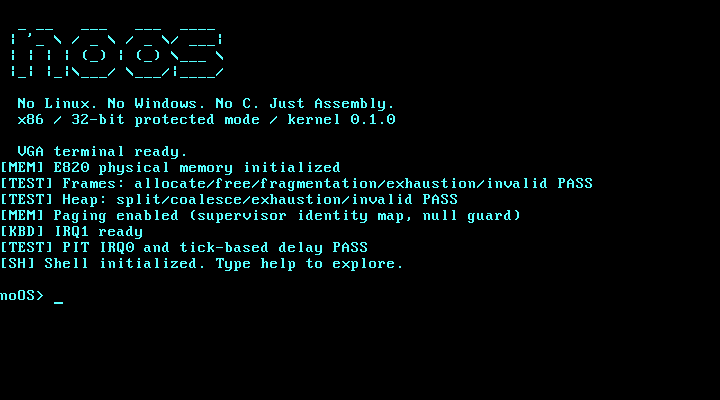
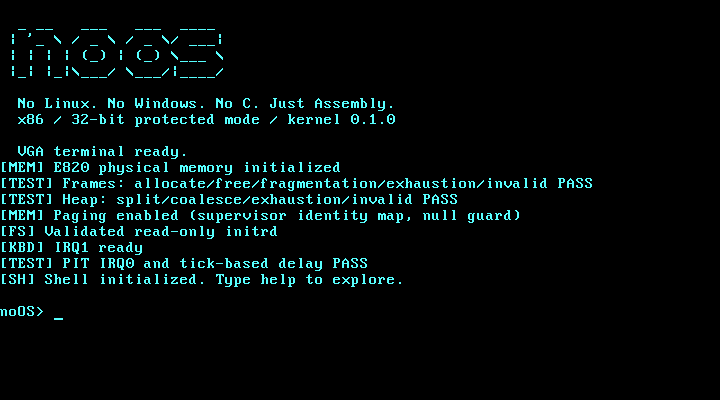
Publish noOS site

Changed region(s): [[0.0, 0.57, 0.55, 0.81]]

diff --git a/noOS/docs.html b/noOS/docs.html
@@ -18,18 +18,23 @@
   <main id="main" class="wrap">
     <div class="docs-title"><p class="eyebrow">THE noOS FIELD MANUAL</p><h1>Know every instruction.</h1><p>Read the boot path, inspect the memory layout, and run the actual kernel. The source is the specification; the verified gates describe its progress.</p></div>
     <div class="docs-layout">
-      <nav class="docs-nav" aria-label="Manual contents"><p>CONTENTS</p><a href="#overview">What noOS is</a><a href="#architecture">Boot & architecture</a><a href="#memory">Memory & paging</a><a href="#shell">Shell commands</a><a href="#hardware">Timer & CPU</a><a href="#development">Build & test</a><a href="#debugging">GDB debugging</a><a href="#status">Verified roadmap</a><a href="#limits">Limits & contributing</a></nav>
+      <nav class="docs-nav" aria-label="Manual contents"><p>CONTENTS</p><a href="#overview">What noOS is</a><a href="#architecture">Boot & architecture</a><a href="#memory">Memory & paging</a><a href="#shell">Shell commands</a><a href="#filesystem">Read-only files</a><a href="#hardware">Timer & CPU</a><a href="#development">Build & test</a><a href="#debugging">GDB debugging</a><a href="#status">Verified roadmap</a><a href="#limits">Limits & contributing</a></nav>
       <div class="docs-content">
         <section id="overview" aria-labelledby="overview-title"><h2 id="overview-title">What noOS is</h2><p>noOS is an experimental x86 operating system. A BIOS loads its boot sector, which loads a second stage and then a protected mode Assembly kernel. It runs directly on the virtual hardware QEMU provides.</p><p>All code executed by noOS is NASM Assembly. Python and Make build the disk image and run tests on the host; neither is part of the operating system runtime. There is no libc or host operating system inside the guest.</p><div class="docs-note"><p><strong>Supported target:</strong> QEMU’s legacy BIOS <code>pc</code> machine with VGA text mode, the legacy PIC, PIT, COM1 serial output, and a PS/2 keyboard. Physical hardware and UEFI boot are unverified.</p></div></section>
-        <section id="architecture" aria-labelledby="architecture-title"><h2 id="architecture-title">Boot & architecture</h2><div class="architecture" aria-label="Boot sequence"><div><div><strong>BIOS → first stage</strong><p>Loads the first sector at <code>0x7C00</code>; the loader preserves the BIOS boot drive.</p><span>boot/stage1.asm</span></div><b>16-BIT REAL MODE</b></div><div><div><strong>First stage → second stage</strong><p>Reads the second stage from the raw disk image and transfers control to <code>0x8000</code>.</p><span>boot/stage2.asm</span></div><b>BIOS DISK SERVICES</b></div><div><div><strong>Second stage → protected mode</strong><p>Preserves the E820 map, loads the kernel, checks A20, installs a GDT, sets CR0.PE, and makes a far jump.</p><span>boot/gdt.asm</span></div><b>FLAT SEGMENTATION</b></div><div><div><strong>Protected mode → kernel</strong><p>Initializes segment registers and a stack, then enters the kernel at <code>0x10000</code>.</p><span>kernel/entry.asm</span></div><b>32-BIT KERNEL</b></div></div><h3>Kernel initialization</h3><p><a href="https://github.com/OthmaneBlial/noOS/blob/main/kernel/main.asm">kernel/main.asm</a> initializes and checks the VGA terminal, IDT, PIC, physical allocator, heap, and paging. It then installs the PS/2 keyboard, detects the CPU, configures the PIT, enables interrupts, checks tick-based delay, and starts the shell.</p><h3>Hardware ownership</h3><p>The kernel writes its VGA terminal through <code>0xB8000</code>. The PS/2 driver receives keyboard events through IRQ1 after the PIC is remapped and the IDT installed. The PIT drives IRQ0. COM1 serial output exposes boot and diagnostic events to QEMU’s host terminal.</p><p>The source modules live in <a href="https://github.com/OthmaneBlial/noOS/tree/main/kernel">kernel/</a>. The roadmap below records each implementation’s verification status.</p></section>
+        <section id="architecture" aria-labelledby="architecture-title"><h2 id="architecture-title">Boot & architecture</h2><div class="architecture" aria-label="Boot sequence"><div><div><strong>BIOS → first stage</strong><p>Loads the first sector at <code>0x7C00</code>; the loader preserves the BIOS boot drive.</p><span>boot/stage1.asm</span></div><b>16-BIT REAL MODE</b></div><div><div><strong>First stage → second stage</strong><p>Reads the second stage from the raw disk image and transfers control to <code>0x8000</code>.</p><span>boot/stage2.asm</span></div><b>BIOS DISK SERVICES</b></div><div><div><strong>Second stage → protected mode</strong><p>Preserves the E820 map, loads the kernel, checks A20, installs a GDT, sets CR0.PE, and makes a far jump.</p><span>boot/gdt.asm</span></div><b>FLAT SEGMENTATION</b></div><div><div><strong>Protected mode → kernel</strong><p>Initializes segment registers and a stack, then enters the kernel at <code>0x10000</code>.</p><span>kernel/entry.asm</span></div><b>32-BIT KERNEL</b></div></div><h3>Kernel initialization</h3><p><a href="https://github.com/OthmaneBlial/noOS/blob/main/kernel/main.asm">kernel/main.asm</a> initializes and checks the VGA terminal, IDT, PIC, physical allocator, heap, paging, and the read-only initrd. It then installs the PS/2 keyboard, detects the CPU, configures the PIT, enables interrupts, checks tick-based delay, and starts the shell.</p><h3>Hardware ownership</h3><p>The kernel writes its VGA terminal through <code>0xB8000</code>. The PS/2 driver receives keyboard events through IRQ1 after the PIC is remapped and the IDT installed. The PIT drives IRQ0. COM1 serial output exposes boot and diagnostic events to QEMU’s host terminal.</p><p>The source modules live in <a href="https://github.com/OthmaneBlial/noOS/tree/main/kernel">kernel/</a>. The roadmap below records each implementation’s verification status.</p></section>
         <section id="memory" aria-labelledby="memory-title"><h2 id="memory-title">Memory & paging</h2><p>The second stage preserves BIOS E820 records. The kernel validates the map, distinguishes usable from reserved ranges, reserves the first MiB, and allocates complete 4 KiB physical frames from usable RAM below 128 MiB.</p><div class="table-scroll"><table><thead><tr><th scope="col">Address</th><th scope="col">Purpose</th><th scope="col">Owner</th></tr></thead><tbody><tr><td><code>0x4FF0 / 0x4FF4</code></td><td>E820 record count / map signature</td><td>Loader handoff metadata</td></tr><tr><td><code>0x5000</code></td><td>E820 memory map buffer</td><td>Second stage / memory discovery</td></tr><tr><td><code>0x7C00</code></td><td>512-byte BIOS boot sector</td><td>First stage</td></tr><tr><td><code>0x8000</code></td><td>Second stage load address</td><td>Loader</td></tr><tr><td><code>0x10000</code></td><td>Kernel load and entry address</td><td>32-bit kernel</td></tr><tr><td><code>0x70000–0x7FFFF</code></td><td>64 KiB kernel heap arena</td><td>Heap allocator</td></tr><tr><td><code>0x88000–0x8FFFF</code></td><td>Kernel stack region; initial top <code>0x90000</code></td><td>Kernel stack</td></tr><tr><td><code>0xB8000</code></td><td>80 × 25 VGA text buffer</td><td>VGA hardware</td></tr><tr><td><code>0x00000–0xFFFFF</code></td><td>Reserved first MiB</td><td>Boot environment and hardware</td></tr></tbody></table></div><h3>Physical frames and heap</h3><p>The physical allocator tracks eligible, busy, and pinned frames. It handles exhaustion and rejects unaligned, out-of-range, invalid, double, and pinned-frame frees. The 64 KiB heap uses 16-byte aligned allocations, first fit, block splitting, and adjacent free block coalescing.</p><p><code>mem</code> reads the actual E820 usable total, managed usable frames, unavailable frames inside the managed window, allocated/free frames, and heap usage. Detected usable memory above 128 MiB contributes to the E820 total but is outside the allocator’s current management window.</p><h3>Supervisor paging</h3><p>The kernel identity maps the first 128 MiB with supervisor-only page tables. The null page is absent, and the VGA page is uncached. CR0 paging and supervisor write protection are enabled. One page directory and 32 page tables occupy 33 pinned frames that cannot be released through the allocator.</p><div class="docs-note"><p>This is one kernel address space, with no user mode isolation yet. The mapped window also includes reserved and unavailable addresses; only E820-eligible frames enter the physical free pool. Boot checks validate the kernel, stack, E820, heap, and VGA mappings before paging is enabled.</p></div></section>
-        <section id="shell" aria-labelledby="shell-title"><h2 id="shell-title">Shell commands</h2><p>The shell runs inside the kernel and implements all fourteen initial commands. Type <code>help</code> in the guest to see the command menu for your build.</p><div class="table-scroll"><table><thead><tr><th scope="col">Command</th><th scope="col">Purpose</th></tr></thead><tbody><tr><td><code>help</code></td><td>List implemented commands.</td></tr><tr><td><code>clear</code></td><td>Clear the VGA terminal.</td></tr><tr><td><code>version</code> / <code>about</code></td><td>Print the kernel identity and project description.</td></tr><tr><td><code>echo [text]</code></td><td>Write text to the terminal.</td></tr><tr><td><code>history</code></td><td>Show previously entered commands.</td></tr><tr><td><code>color FB</code></td><td>Set foreground then background using two hex digits; <code>color e1</code> is yellow on blue.</td></tr><tr><td><code>mem</code></td><td>Print detected and managed memory, frame counts, and heap usage.</td></tr><tr><td><code>cpu</code></td><td>Print CPUID vendor, family, model, stepping, and leaf 1 EDX features; report when CPUID is unavailable.</td></tr><tr><td><code>uptime</code></td><td>Read live 64-bit PIT tick and elapsed second counters.</td></tr><tr><td><code>sysinfo</code></td><td>Combine version, CPU, memory, uptime, keyboard IRQ, and dropped-event diagnostics.</td></tr><tr><td><code>reboot</code> / <code>halt</code></td><td>Restart or halt the guest machine.</td></tr><tr><td><code>panic [page|gp|divide]</code></td><td>Trigger a real exception: invalid opcode by default, or page fault, general protection, or divide error.</td></tr></tbody></table></div><h3>Line editing</h3><p>Left and Right move the cursor. Home and End jump within the line. Delete and Backspace remove characters; Escape clears the draft. Tab inserts one space. Up and Down navigate eight history entries while preserving the current draft. Input is bounded to 127 ASCII characters.</p><p>Filesystem and user process commands will be documented when their separate implementations are verified.</p></section>
+        <section id="shell" aria-labelledby="shell-title"><h2 id="shell-title">Shell commands</h2><p>The shell runs inside the kernel and implements eighteen commands. Type <code>help</code> in the guest to see the command menu for your build.</p><div class="table-scroll"><table><thead><tr><th scope="col">Command</th><th scope="col">Purpose</th></tr></thead><tbody><tr><td><code>help</code></td><td>List implemented commands.</td></tr><tr><td><code>clear</code></td><td>Clear the VGA terminal.</td></tr><tr><td><code>version</code> / <code>about</code></td><td>Print the kernel identity and project description.</td></tr><tr><td><code>echo [text]</code></td><td>Write text to the terminal.</td></tr><tr><td><code>history</code></td><td>Show previously entered commands.</td></tr><tr><td><code>color FB</code></td><td>Set foreground then background using two hex digits; <code>color e1</code> is yellow on blue.</td></tr><tr><td><code>mem</code></td><td>Print detected and managed memory, frame counts, and heap usage.</td></tr><tr><td><code>cpu</code></td><td>Print CPUID vendor, family, model, stepping, and leaf 1 EDX features; report when CPUID is unavailable.</td></tr><tr><td><code>uptime</code></td><td>Read live 64-bit PIT tick and elapsed second counters.</td></tr><tr><td><code>sysinfo</code></td><td>Combine version, CPU, memory, uptime, keyboard IRQ, and dropped-event diagnostics.</td></tr><tr><td><code>ls</code></td><td>List files and lengths in the embedded read-only root.</td></tr><tr><td><code>cat FILE</code></td><td>Read a named file from validated initrd data.</td></tr><tr><td><code>pwd</code></td><td>Print the only root directory, <code>/</code>.</td></tr><tr><td><code>cd /</code></td><td>Accept the flat root; reject other directory paths.</td></tr><tr><td><code>reboot</code> / <code>halt</code></td><td>Restart or halt the guest machine.</td></tr><tr><td><code>panic [page|gp|divide]</code></td><td>Trigger a real exception: invalid opcode by default, or page fault, general protection, or divide error.</td></tr></tbody></table></div><h3>Line editing</h3><p>Left and Right move the cursor. Home and End jump within the line. Delete and Backspace remove characters; Escape clears the draft. Tab inserts one space. Up and Down navigate eight history entries while preserving the current draft. Input is bounded to 127 ASCII characters.</p><p>The filesystem commands currently access the embedded read-only initrd. Writable storage and user process interfaces remain separate roadmap work.</p></section>
+        <section id="filesystem" aria-labelledby="filesystem-title"><h2 id="filesystem-title">Read-only files</h2><p>The kernel embeds an initrd built from <code>initrd/hello.txt</code> and <code>initrd/manual.txt</code>. It exposes one flat root, <code>/</code>. The Assembly <code>cat</code> command prints the actual file bytes from validated embedded data.</p><p>Startup checks the format magic and version, entry count, total length, bounded printable file names, duplicate names, and data offsets and lengths. Bounds checks reject overflow, overlap, and data outside the initrd. Invalid metadata produces a filesystem error and kernel panic before shell file access.</p><div class="command-panel"><div class="code-heading"><span>INSIDE THE noOS SHELL</span><button type="button" data-copy="files-code" aria-label="Copy read-only filesystem commands">Copy commands</button></div><pre><code id="files-code">ls
+cat hello.txt
+cat manual.txt
+pwd
+cd /</code></pre></div><div class="docs-note"><p>The initrd is part of the built image. It has no write operations, subdirectories, or persistent storage. A writable disk filesystem still requires block device I/O, a disk format, and persistence verification.</p></div><p>Inspect <a href="https://github.com/OthmaneBlial/noOS/blob/main/kernel/fs/initrd.asm">kernel/fs/initrd.asm</a> and the <a href="https://github.com/OthmaneBlial/noOS/tree/main/initrd">embedded source files</a>.</p></section>
         <section id="hardware" aria-labelledby="hardware-title"><h2 id="hardware-title">Timer & CPU</h2><p>The PIT uses a 1,193,182 Hz input clock and divisor 11,932, producing roughly 100 IRQ0 ticks per second. Both tick and elapsed second counters are 64-bit. Seconds are derived from accumulated PIT input cycles rather than assuming an exactly 100 Hz rate.</p><p>The kernel’s tick-based delay uses interrupts and halt while waiting. It rejects disabled interrupts and invalid tick counts. <code>uptime</code> reads the counters; <code>sysinfo</code> also exposes actual keyboard IRQ and dropped-event counts.</p><p>CPU initialization first tests CPUID availability, then obtains vendor, family, model, stepping, and feature bits from the virtual CPU. Values displayed by <code>cpu</code> come from that hardware response.</p></section>
         <section id="development" aria-labelledby="development-title"><h2 id="development-title">Build & test</h2><p>Install NASM, QEMU, GNU Make, and Python 3. Build tools run on the host; the result is a raw BIOS disk image that QEMU boots.</p><div class="command-panel"><div class="code-heading"><span>BUILD AND BOOT</span><button type="button" data-copy="build-code" aria-label="Copy build and boot commands">Copy commands</button></div><pre><code id="build-code">git clone https://github.com/OthmaneBlial/noOS.git
 cd noOS
 make
 make run</code></pre></div><div class="table-scroll"><table><thead><tr><th scope="col">Target</th><th scope="col">Result</th></tr></thead><tbody><tr><td><code>make</code></td><td>Assemble the stages and kernel; build <code>build/noos.img</code>.</td></tr><tr><td><code>make run</code></td><td>Boot the image with QEMU, 128 MiB of RAM, and serial output in the host terminal.</td></tr><tr><td><code>make test</code></td><td>Build and run the automated QEMU checks defined in the current checkout.</td></tr><tr><td><code>make debug</code></td><td>Start paused with a GDB server at <code>127.0.0.1:1234</code>.</td></tr><tr><td><code>make size</code></td><td>Report the current binary sizes.</td></tr><tr><td><code>make clean</code></td><td>Remove generated build output.</td></tr></tbody></table></div><p>The raw image, NASM listing, and binaries are generated locally. Inspect <a href="https://github.com/OthmaneBlial/noOS/blob/main/Makefile">Makefile</a> and <a href="https://github.com/OthmaneBlial/noOS/tree/main/tests">tests/</a> for the exact build and verification commands. A QEMU pass establishes virtual platform behavior; it is not a physical machine test.</p></section>
-        <section id="verification" aria-labelledby="verification-title"><h2 id="verification-title">What the tests inspect</h2><p><code>make test</code> runs QEMU checks for boot, VGA, keyboard, shell, memory, paging, and hardware diagnostics. The memory matrix uses 16, 64, 128, and 256 MiB guests and compares the preserved E820 records with allocator accounting. The 256 MiB case checks that detected memory above the management ceiling stays outside the free pool.</p><p>The suite also inspects actual page directory and table entries, supervisor permissions, the absent null page, VGA cache flags, and pinned paging structures. Fault tests deliberately trigger invalid opcode, page fault, general protection, and divide error exceptions. Hardware tests check live PIT counter advancement, CPU data, and keyboard IRQ statistics.</p><p>See <a href="https://github.com/OthmaneBlial/noOS/blob/main/tests/test_memory.py">test_memory.py</a>, <a href="https://github.com/OthmaneBlial/noOS/blob/main/tests/test_paging.py">test_paging.py</a>, and <a href="https://github.com/OthmaneBlial/noOS/blob/main/tests/test_hardware.py">test_hardware.py</a> for assertions and scope.</p></section>
+        <section id="verification" aria-labelledby="verification-title"><h2 id="verification-title">What the tests inspect</h2><p><code>make test</code> runs QEMU checks for boot, VGA, keyboard, shell, memory, paging, initrd, and hardware diagnostics. The memory matrix uses 16, 64, 128, and 256 MiB guests and compares the preserved E820 records with allocator accounting. The 256 MiB case checks that detected memory above the management ceiling stays outside the free pool.</p><p>The suite also inspects actual page directory and table entries, supervisor permissions, the absent null page, VGA cache flags, and pinned paging structures. Fault tests deliberately trigger invalid opcode, page fault, general protection, and divide error exceptions. Hardware tests check live PIT counter advancement, CPU data, and keyboard IRQ statistics.</p><p>Initrd tests read the actual two files, check missing files and directory errors, and reject six corrupt image fixtures: bad magic, excessive count, invalid data offset, invalid length, unterminated name, and duplicate name. See <a href="https://github.com/OthmaneBlial/noOS/blob/main/tests/test_initrd.py">test_initrd.py</a>.</p><p>See <a href="https://github.com/OthmaneBlial/noOS/blob/main/tests/test_memory.py">test_memory.py</a>, <a href="https://github.com/OthmaneBlial/noOS/blob/main/tests/test_paging.py">test_paging.py</a>, and <a href="https://github.com/OthmaneBlial/noOS/blob/main/tests/test_hardware.py">test_hardware.py</a> for assertions and scope.</p></section>
         <section id="debugging" aria-labelledby="debugging-title"><h2 id="debugging-title">GDB debugging</h2><p>Use <code>x86_64-elf-gdb</code>, or another GDB build with i386 target support. Run <code>make debug</code> in one host terminal; QEMU’s <code>-S</code> option pauses the guest before execution. Connect from a second terminal.</p><div class="command-panel"><div class="code-heading"><span>CONNECT TO THE PAUSED GUEST</span><button type="button" data-copy="gdb-code" aria-label="Copy GDB connection commands">Copy commands</button></div><pre><code id="gdb-code">x86_64-elf-gdb
 set architecture i386
 target remote 127.0.0.1:1234

diff --git a/noOS/index.html b/noOS/index.html
@@ -28,7 +28,7 @@
         <p class="eyebrow"><span aria-hidden="true">[</span> AN OPERATING SYSTEM FROM ZERO <span aria-hidden="true">]</span></p>
         <h1 id="hero-title">Just<br><span>Assembly.</span></h1>
         <p class="tagline">No Linux. No Windows. No C.</p>
-        <p class="hero-description">A real x86 operating system built from its first boot sector to an interactive shell. VGA, keyboard interrupts, memory allocators, paging, and hardware ticks—all in NASM.</p>
+        <p class="hero-description">A real x86 operating system built from its first boot sector to an interactive shell. VGA, keyboard interrupts, memory allocators, paging, hardware ticks, and a read-only initrd—all in NASM.</p>
         <div class="actions"><a class="button primary" href="#quickstart">Boot noOS <span aria-hidden="true">↗</span></a><a class="text-link" href="./docs.html">Explore the architecture <span aria-hidden="true">→</span></a></div>
       </div>
       <div class="machine">
@@ -38,7 +38,7 @@
           <div class="screen-image"><img src="./screenshots/noos.png" alt="The real noOS operating system booted in QEMU, showing its Assembly kernel welcome screen and shell." width="720" height="400"><p class="screen-unavailable" hidden>The runtime capture is unavailable.<br>Boot noOS with the commands below.</p></div>
           <figcaption><a href="./screenshots/noos.png" aria-label="Open the full size real QEMU screenshot">REAL RUNTIME CAPTURE <span aria-hidden="true">↗</span></a><span>NO HOST OS INSIDE</span></figcaption>
         </figure>
-        <p class="machine-note">A real shell. Live memory, CPU, and uptime data.<br>NASM is the runtime language. QEMU is the test machine.</p>
+        <p class="machine-note">A real shell. Live diagnostics. Read-only files.<br>NASM is the runtime language. QEMU is the test machine.</p>
       </div>
     </section>
     <div class="spec-strip wrap" aria-label="Technical foundations">
@@ -66,7 +66,7 @@ cd noOS
 make
 make run</code></pre><div class="code-foot"><span aria-hidden="true">↳</span> <span><code>make test</code> checks the boot path in QEMU. <code>make debug</code> pauses it for GDB.</span></div></div>
     </section>
-    <section class="limits wrap" aria-label="Current scope"><span class="eyebrow">KNOW THE BOUNDARY</span><p>This is an experimental operating system for QEMU’s BIOS <code>pc</code> machine. Physical memory management currently covers the first 128 MiB. Physical hardware and UEFI are unvalidated; filesystem, process, and user mode work has its own roadmap gates.</p></section>
+    <section class="limits wrap" aria-label="Current scope"><span class="eyebrow">KNOW THE BOUNDARY</span><p>This is an experimental operating system for QEMU’s BIOS <code>pc</code> machine. Physical memory management currently covers the first 128 MiB. Physical hardware and UEFI are unvalidated; persistent filesystems, processes, and user mode remain roadmap work.</p></section>
   </main>
   <footer class="wrap"><a class="wordmark" href="./">no<span>OS</span><b aria-hidden="true">_</b></a><p>Built from zero. Verified one milestone at a time.</p><div><a href="https://github.com/OthmaneBlial/noOS/blob/main/LICENSE">MIT license</a><a href="https://github.com/OthmaneBlial/noOS">Source <span aria-hidden="true">↗</span></a></div></footer>
   <p id="copy-status" class="sr-only" role="status" aria-live="polite"></p>

diff --git a/noOS/INTEGRATION.md b/noOS/INTEGRATION.md
@@ -3,7 +3,7 @@
 ## Files
 
 - `index.html`: product showcase, real runtime image, boot path, computed roadmap, and quick start.
-- `docs.html`: source-based field manual with boot architecture, E820, allocators, supervisor paging, all fourteen initial shell commands, PIT, CPUID, test scope, GDB, and current limits.
+- `docs.html`: source-based field manual with boot architecture, E820, allocators, supervisor paging, all eighteen current shell commands, the embedded read-only initrd, PIT, CPUID, test scope, GDB, and current limits.
 - `styles.css`: charcoal, cream, and cyan visual system; responsive layouts and keyboard focus styles.
 - `app.js`: strict 40-gate roadmap reader, safe text-only rendering, native details disclosures, and command copy actions.
 - `progress.json`: published copy of `docs/progress.json`, refreshed by the repository progress tool.
@@ -31,7 +31,7 @@ Checks completed before handoff:
 - Missing data and missing screenshot fallback states were exercised before the files were supplied. The authentic 720 × 400 QEMU screenshot now loads and was visually reviewed in the desktop and mobile layouts; its caption links to the full size image.
 - Internal page links and fragment targets resolve.
 - Local HTTP 200 verified for all twelve required resources: the two pages, JavaScript, CSS, favicon, progress JSON, three font files, authentic QEMU screenshot, robots, and sitemap.
-- Current documentation was checked against `kernel/main.asm`, shell command dispatch, physical/heap/paging source, PIT/CPU source, and memory/paging/hardware tests. It documents the 128 MiB management ceiling, low MiB reservation, heap and stack ranges, pinned paging structures, null guard, and real fault commands.
+- Current documentation was checked against `kernel/main.asm`, shell command dispatch, physical/heap/paging source, PIT/CPU source, read-only initrd source, and memory/paging/hardware/initrd tests. It documents the 128 MiB management ceiling, low MiB reservation, heap and stack ranges, pinned paging structures, null guard, and real fault commands.
 - The manual uses the available cross GDB command, `x86_64-elf-gdb`, and documents the actual loopback debug target and kernel entry hardware breakpoint. Runtime boot and the real GDB session were verified by the main agent; the showcase review did not repeat kernel tests.
 - The final local browser session reported no warning or error console entries. Temporary viewport overrides were reset.
 
@@ -39,7 +39,7 @@ Checks completed before handoff:
 
 1. Keep the authentic QEMU image at `site/screenshots/noos.png` synchronized with the running kernel; do not substitute a terminal mockup.
 2. Run the repository progress tool after final verified gates change, so the README and `site/progress.json` remain synchronized.
-3. Refresh the field manual when later filesystem, scheduling, user mode, or executable loading milestones are verified. The current manual accurately describes the completed initial hardware core and the advanced roadmap boundary.
+3. The current manual documents the verified read-only initrd, eighteen commands, and six corrupt metadata image fixtures. Refresh it when writable persistent filesystems, scheduling, user mode, or executable loading milestones are verified. Refresh the real QEMU capture when the boot screen changes; no binary or initrd sizes are hardcoded.
 4. Run the self-check again if the progress schema or site logic changes; repeat HTTP checks against the published site.
 5. Publish this complete directory with the GitHub Pages skill helper, preserving the canonical folder name `noOS` and unrelated project folders. Inspect the Pages repository's actual default branch.
 6. Verify `https://othmaneblial.github.io/noOS/`, `docs.html`, `progress.json`, font assets, and the authentic screenshot over HTTPS. Successful source push alone does not prove Pages propagation.
